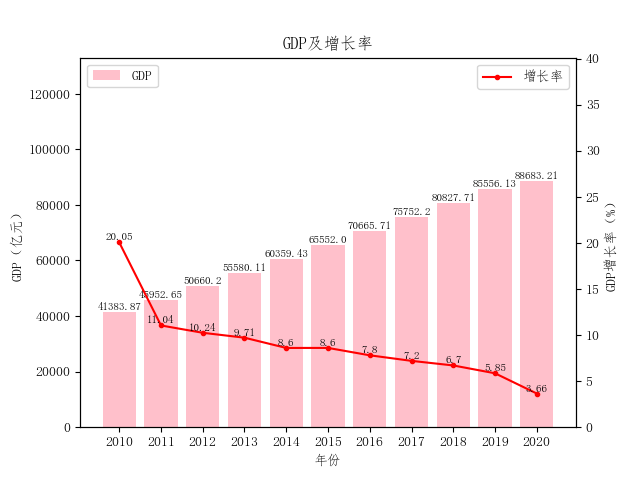
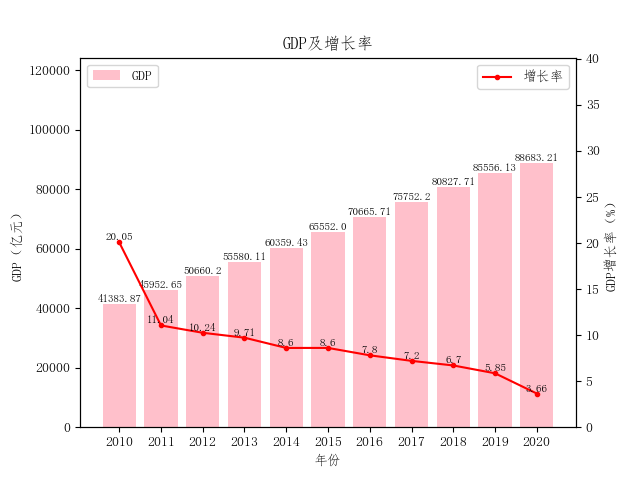
renew and add energy plot

diff --git a/D.py b/D.py
@@ -22,17 +22,17 @@ def read_population_and_GDP(df):
 def plot_population(population, rate, index):
     rate *= 100
     x = range(2010, 2021)
-    titles = ['常驻人口及增长率', 'GDP及增长率', '人均GDP及增长率']
-    labels = ['常驻人口', 'GDP', '人均GDP']
-    left_labels = ['常驻人口（万人）', 'GDP（亿元）', '人均GDP（万元）']
-    right_labels = ['常驻人口增长率（%）', 'GDP增长率（%）', '人均GDP增长率（%）']
+    titles = ['常驻人口及增长率', 'GDP及增长率', '人均GDP及增长率', '能源消费量总量']
+    labels = ['常驻人口', 'GDP', '人均GDP', '能源消费量']
+    left_labels = ['常驻人口（万人）', 'GDP（亿元）', '人均GDP（万元）', '能源消费量（万tce）']
+    right_labels = ['常驻人口增长率（%）', 'GDP增长率（%）', '人均GDP增长率（%）', '能源消费量增长率（%）']
 
     # 画柱状图
     plt.bar(x, population, label=labels[index], color='pink')
     plt.xlabel('年份')
     plt.ylabel(left_labels[index])
     ax = plt.gca()
-    ax.set_ylim([0., 1.5 * max(population)])
+    ax.set_ylim([min(0., min(population)), 1.4 * max(population)])
     ax.xaxis.set_major_locator(plt.MultipleLocator(1))  # x轴刻度间隔设为1
     # 在左侧显示图例
     plt.legend(loc="upper left")
@@ -43,8 +43,9 @@ def plot_population(population, rate, index):
     ax2 = plt.twinx()
     ax2.set_ylabel(right_labels[index])
     # 设置坐标轴范围
-    ax2.set_ylim([0., 2 * max(rate)])
-    plt.plot(x, rate, marker='.', c='r', label='增长率')
+    mask = np.ma.masked_invalid(rate)
+    ax2.set_ylim([min(0., 1.4 * np.min(mask)), 2 * np.max(mask)])
+    plt.plot(x, mask, marker='.', c='r', label='增长率')
     # 显示数字
     for a, b in zip(x, rate):
         plt.text(a, b, round(b, 2), ha='center', va='bottom', fontsize=8)
@@ -92,6 +93,12 @@ def plot_economy_structure(economies, name):
     fig.subplots_adjust(right=0.75)
     plt.savefig(os.path.join(figure_save_path, name))
     plt.show()
+
+
+# 读取能源消耗量数据
+# 数据来自《经济与能源》11-22行
+def read_energy(df):
+    return df.values[9:21, 5:16]
 
 
 # 读取能耗品种结构数据
@@ -166,14 +173,6 @@ if __name__ == '__main__':
     df_economy_and_energy = read_sheet(file_path, '经济与能源')  # 表《经济与能源》中的数据
     df_carbon_emission = read_sheet(file_path, '碳排放')  # 表《碳排放》中的数据
 
-    energy_consumption_variety_title = ['煤炭消费量及子项变化趋势', '油品消费量及子项变化趋势',
-                                        '天然气消费量及子项变化趋势', '新能源消费量变化趋势']
-    energy_consumption_title = ['第一产业（农林）能耗结构变化趋势', '第二产业能耗结构变化趋势',
-                                '能源供应部门能耗结构变化趋势',
-                                '工业消费部门能耗结构变化趋势', '第三产业能耗结构变化趋势',
-                                '交通消费部门能耗结构变化趋势',
-                                '建筑消费部门能耗结构变化趋势', '居民生活能耗结构变化趋势']
-
     population_and_GDP = read_population_and_GDP(df_economy_and_energy)
 
     # 补充2009年常驻人口7810.27万人
@@ -189,7 +188,22 @@ if __name__ == '__main__':
     pre_GDP_by_person = np.insert(GDP_by_person[:-1], 0, 34471.70 / 7810.27)
     plot_population(GDP_by_person, (GDP_by_person - pre_GDP_by_person) / pre_GDP_by_person, 2)
 
+    energy = read_energy(df_economy_and_energy)
+
+    # 补充2009年能源消费量？？？
+    pre_energy = np.insert(energy[0][:-1].astype(np.float64), 0, 0)
+
+    plot_population(energy[0], (energy[0].astype(np.float64) - pre_energy) / pre_energy, 3)
+
     plot_economy_structure(population_and_GDP, '地区生产总值结构变化趋势')
+
+    energy_consumption_variety_title = ['煤炭消费量及子项变化趋势', '油品消费量及子项变化趋势',
+                                        '天然气消费量及子项变化趋势', '新能源消费量变化趋势']
+    energy_consumption_title = ['第一产业（农林）能耗结构变化趋势', '第二产业能耗结构变化趋势',
+                                '能源供应部门能耗结构变化趋势',
+                                '工业消费部门能耗结构变化趋势', '第三产业能耗结构变化趋势',
+                                '交通消费部门能耗结构变化趋势',
+                                '建筑消费部门能耗结构变化趋势', '居民生活能耗结构变化趋势']
 
     energy_consumption_variety = read_energy_consumption_variety_structure(df_economy_and_energy)
     for i, consumption in enumerate(energy_consumption_variety):
